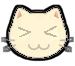
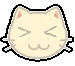
控制面板-毛玻璃

Changed region(s): [[0.0, 0.0606, 0.9867, 0.9394]]

diff --git a/client.js b/client.js
@@ -20,26 +20,160 @@ let popon = true;
 let time_1A = 0;
 let time_2A = 0;
 
+// 聲音開關 - 可在網頁上動態切換
+let SOUND_ENABLED = localStorage.getItem('soundEnabled') !== 'false';
+
+// 毛玻璃效果開關 - 可在網頁上動態切換
+let GLASS_EFFECT_ENABLED = localStorage.getItem('glassEffectEnabled') !== 'false';
+
 // 獲取 DOM 元素：棋盤、狀態欄、訊息欄、分數欄
 const boardEl = document.getElementById("board");
 const statusEl = document.getElementById("status");
 const messageEl = document.getElementById("message");
 // const scoreEl = document.getElementById("score");
-const audio_place = new Audio("audio/place.mp3");
+let audio_place = null;
 
 // 創建音頻池，避免同時播放衝突
 const audio_meow_pool = [];
-for (let i = 0; i < 20; i++) { // 增加到 20 個實例
-  const audio = new Audio("audio/meow.mp3");
-  audio.preload = "auto";
-  audio.load();
-  audio.volume = 0.8; // 設置默認音量
-  audio_meow_pool.push(audio);
-}
 let currentMeowIndex = 0;
+
+// 初始化音頻資源
+function initAudio() {
+  if (SOUND_ENABLED && !audio_place) {
+    audio_place = new Audio("audio/place.mp3");
+    
+    // 清空並重新創建音頻池
+    audio_meow_pool.length = 0;
+    for (let i = 0; i < 20; i++) {
+      const audio = new Audio("audio/meow.mp3");
+      audio.preload = "auto";
+      audio.load();
+      audio.volume = 0.8;
+      audio_meow_pool.push(audio);
+    }
+  }
+}
+
+// 清理音頻資源
+function cleanupAudio() {
+  if (audio_place) {
+    audio_place.pause();
+    audio_place = null;
+  }
+  
+  audio_meow_pool.forEach(audio => {
+    audio.pause();
+    audio.src = '';
+  });
+  audio_meow_pool.length = 0;
+  currentMeowIndex = 0;
+}
+
+// 聲音開關控制函數
+function toggleSound() {
+  SOUND_ENABLED = !SOUND_ENABLED;
+  localStorage.setItem('soundEnabled', SOUND_ENABLED);
+  updateSoundButton();
+  
+  if (SOUND_ENABLED) {
+    initAudio();
+  } else {
+    cleanupAudio();
+  }
+}
+
+// 毛玻璃效果開關控制函數
+function toggleGlass() {
+  GLASS_EFFECT_ENABLED = !GLASS_EFFECT_ENABLED;
+  localStorage.setItem('glassEffectEnabled', GLASS_EFFECT_ENABLED);
+  updateGlassButton();
+  
+  // 重新更新所有棋子圖片
+  document.querySelectorAll('.cell').forEach(cell => {
+    cell.dataset.whiteImage = '';
+    cell.dataset.blackImage = '';
+  });
+  
+  // 重新繪製棋盤
+  const board = getCurrentBoard();
+  if (board) {
+    updateBoard(board);
+  }
+}
+
+// 更新聲音按鈕狀態
+function updateSoundButton() {
+  const soundButton = document.getElementById('soundToggle');
+  if (SOUND_ENABLED) {
+    soundButton.textContent = '🔊 聲音';
+    soundButton.classList.remove('disabled');
+  } else {
+    soundButton.textContent = '🔇 聲音';
+    soundButton.classList.add('disabled');
+  }
+}
+
+// 更新毛玻璃按鈕狀態
+function updateGlassButton() {
+  const glassButton = document.getElementById('glassToggle');
+  if (GLASS_EFFECT_ENABLED) {
+    glassButton.textContent = '✨ 毛玻璃';
+    glassButton.classList.remove('disabled');
+  } else {
+    glassButton.textContent = '📷 清晰';
+    glassButton.classList.add('disabled');
+  }
+}
+
+// 獲取棋子圖片路徑
+function getChessImagePath(color, rand) {
+  const baseFolder = GLASS_EFFECT_ENABLED ? 'chess' : 'chess/chess_p';
+  if (color === 'white') {
+    return rand === 1 ? 'chess1.png' : `${baseFolder}/chess1_${rand}.png`;
+  } else if (color === 'black') {
+    return rand === 1 ? 'chess2.png' : `${baseFolder}/chess2_${rand}.png`;
+  }
+}
+
+// 獲取當前棋盤狀態（從DOM重建）
+function getCurrentBoard() {
+  const board = Array(8).fill().map(() => Array(8).fill(null));
+  
+  document.querySelectorAll('.cell').forEach((cell, i) => {
+    const x = i % 8;
+    const y = Math.floor(i / 8);
+    const disk = cell.querySelector('.disk');
+    
+    if (disk) {
+      if (disk.classList.contains('white')) {
+        board[y][x] = 'white';
+      } else if (disk.classList.contains('black')) {
+        board[y][x] = 'black';
+      }
+    }
+  });
+  
+  return board;
+}
+
+// 初始化按鈕狀態
+function initButtons() {
+  updateSoundButton();
+  updateGlassButton();
+}
+
+// 初始化音頻
+initAudio();
+// 初始化按鈕狀態
+window.addEventListener('DOMContentLoaded', initButtons);
 
 // 獲取可用的音頻實例 
 function getAvailableAudio() {
+  // 如果聲音關閉，返回 null
+  if (!SOUND_ENABLED || audio_meow_pool.length === 0) {
+    return null;
+  }
+  
   // 尋找未在播放的音頻實例
   for (let i = 0; i < audio_meow_pool.length; i++) {
     const index = (currentMeowIndex + i) % audio_meow_pool.length;
@@ -504,8 +638,8 @@ document.querySelectorAll(".cell").forEach((cell, i) => {
 
   // console.log(`更新格子 (${x}, ${y})`);
 
-  if (data.board[y][x]) {
-    // 有棋子 → 加上 fogged 效果
+  if (data.board[y][x] && GLASS_EFFECT_ENABLED) {
+    // 有棋子且啟用毛玻璃效果 → 加上 fogged 效果
     cell.classList.add("fogged");
     
     // 為每個 fogged 元素設置隨機參數
@@ -571,7 +705,9 @@ socket.on("invalidMove", () => {
   showMessage("這不是合法的落子位置");
 });
 socket.on("place", ({i,board,turn}) => {
-    audio_place.play();
+    if (SOUND_ENABLED && audio_place) {
+        audio_place.play();
+    }
     setTimeout(() => updatechess(i,board,turn));
    
 });
@@ -582,6 +718,11 @@ const specialCell = boardEl.querySelector(`[data-index="${targetIndex}"]`);
   specialCell.classList.add("special"); 
 });
 function playMeow(audioElement) {
+    // 如果聲音關閉或音頻元素不存在，直接返回
+    if (!SOUND_ENABLED || !audioElement) {
+        return;
+    }
+    
     try {
         const speedOptions = [0.6, 0.8, 1, 1.2, 1.4];
         const volumeOptions = [0.6, 0.8, 1.0]; // 調低音量避免失真
@@ -677,8 +818,10 @@ socket.on("moveResult", ({ flippedCount, flippedPositions, player, scores,idx })
     sortedFlipped.forEach(({ fx, fy }, i) => {
       // 給每個音效添加延遲，對應翻轉動畫時機
       setTimeout(() => {
-        const audioInstance = getAvailableAudio();
-        playMeow(audioInstance);
+        if (SOUND_ENABLED) {
+          const audioInstance = getAvailableAudio();
+          playMeow(audioInstance);
+        }
       }, i * 100);
      setTimeout(() => flipani(fx, fy), i * 100); // 每顆延遲一點時間
    });
@@ -934,7 +1077,7 @@ function updatechess(idx,board,turn){
         let imgName;
         if (!cell.dataset.whiteImage) {
           const rand = Math.floor(Math.random() * 6) + 1;
-          imgName = rand === 1 ? 'chess1.png' : `chess/chess1_${rand}.png`;
+          imgName = getChessImagePath('white', rand);
           cell.dataset.whiteImage = imgName;
         } else {
           imgName = cell.dataset.whiteImage;
@@ -946,7 +1089,7 @@ function updatechess(idx,board,turn){
 
         if (!cell.dataset.blackImage) {
           const rand = Math.floor(Math.random() * 6) + 1;
-          imgName = rand === 1 ? 'chess2.png' : `chess/chess2_${rand}.png`;
+          imgName = getChessImagePath('black', rand);
           cell.dataset.blackImage = imgName;
         } else {
           imgName = cell.dataset.blackImage;
@@ -984,7 +1127,7 @@ function updateBoard(board) {
 
         if (!cell.dataset.whiteImage) {
           const rand = Math.floor(Math.random() * 6) + 1;
-          imgName = rand === 1 ? 'chess1.png' : `chess/chess1_${rand}.png`;
+          imgName = getChessImagePath('white', rand);
           cell.dataset.whiteImage = imgName;
         } else {
           imgName = cell.dataset.whiteImage;
@@ -997,7 +1140,7 @@ function updateBoard(board) {
 
         if (!cell.dataset.blackImage) {
           const rand = Math.floor(Math.random() * 6) + 1;
-          imgName = rand === 1 ? 'chess2.png' : `chess/chess2_${rand}.png`;
+          imgName = getChessImagePath('black', rand);
           cell.dataset.blackImage = imgName;
         } else {
           imgName = cell.dataset.blackImage;

diff --git a/style.css b/style.css
@@ -725,6 +725,55 @@ will-change: transform, border-radius; /* 提示瀏覽器優化 */
   z-index: 15;
 }
 
+/* 右上角控制面板 */
+#controlPanel {
+  position: fixed;
+  top: 20px;
+  right: 20px;
+  z-index: 1000;
+  display: flex;
+  gap: 8px;
+}
+
+#controlPanel button {
+  padding: 8px 12px;
+  font-size: 0.9em;
+  border: none;
+  border-radius: 6px;
+  cursor: pointer;
+  transition: all 0.3s ease;
+  font-weight: bold;
+  box-shadow: 0 2px 4px rgba(0,0,0,0.2);
+}
+
+#soundToggle {
+  background-color: #77aaff;
+  color: white;
+}
+
+#soundToggle:hover {
+  background-color: #5588dd;
+  transform: translateY(-2px);
+}
+
+#soundToggle.disabled {
+  background-color: #999;
+}
+
+#glassToggle {
+  background-color: #ff77aa;
+  color: white;
+}
+
+#glassToggle:hover {
+  background-color: #dd5588;
+  transform: translateY(-2px);
+}
+
+#glassToggle.disabled {
+  background-color: #999;
+}
+
 #aiButton {
   margin-top: 10px;
   padding: 8px 16px;
@@ -734,6 +783,15 @@ will-change: transform, border-radius; /* 提示瀏覽器優化 */
   border: none;
   border-radius: 6px;
   cursor: pointer;
+  display: inline-block;
+}
+
+#aiButton:hover {
+  background-color: #5588dd;
+}
+
+#aiButton:active {
+  transform: scale(0.98);
 }
 #floating-img {
   position: absolute;
@@ -966,9 +1024,14 @@ body,
 #game-wrapper, 
 .board-container, 
 .cell,
-#aiButton,
 #container {
   cursor: none !important;
+}
+
+/* 但保留按鈕的游標 */
+#aiButton,
+#soundToggle {
+  cursor: pointer !important;
 }
 
 /* 讓兩個影片絕對定位重疊 */

diff --git a/index.html b/index.html
@@ -8,6 +8,13 @@
 <body>
 
 <div id="status">正在連線...</div>
+
+<!-- 右上角控制面板 -->
+<div id="controlPanel">
+  <button id="soundToggle" onclick="toggleSound()">🔊 聲音</button>
+  <button id="glassToggle" onclick="toggleGlass()">✨ 毛玻璃</button>
+</div>
+
 <button id="aiButton">與電腦對戰</button>
 <div id="pass-message" style="text-align: center; font-weight: bold; color: red; margin-bottom: 10px;"></div>
 <div id="messageBox" style="margin-top:10px; font-weight:bold; color:red;"></div>
